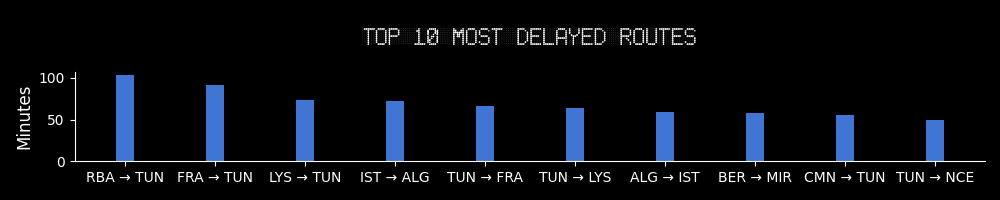
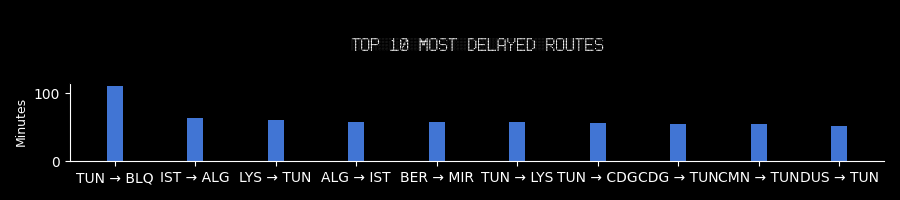
The final Image was ready with all stats need

diff --git a/src/analysis/image_analyze.py b/src/analysis/image_analyze.py
@@ -1,8 +1,10 @@
 import pandas as pd
 import matplotlib.pyplot as plt
 from PIL import Image, ImageDraw, ImageFont
-from src.analysis.analyze_delays import plot_hourly_avg_delays,plot_top_delayed_routes
-
+from datetime import datetime
+import os
+# from src.analysis.analyze_delays import plot_hourly_avg_delays,plot_top_delayed_routes
+# from main import SKYFONT,SKYFONT_INVERTED,GLYPH_AIRPORT
 # Assume you have a DataFrame ready, called df
 # Columns assumed: ['departure_delay', 'arrival_delay', 'flight_status', 'departure_airport', 'arrival_airport', 'flight_number', 'airline']
 
@@ -15,53 +17,91 @@ def create_simple_plot(values, labels, title, ylabel, output_path):
     plt.savefig(output_path)
     plt.close()
 
-def add_banner(report, x, y, label: str, value):
+def get_text_dimensions(text_string: str, font):
     """
-    Function to create the label and it's value
-    the label will be in orange
-    the value will be in white
+    will return the dimensions in pixels of the text
     Args:
-        report (ImageDraw): the report image pillow
-        x (_type_): the x position
-        y (_type_): the y position
-        label (str): the label string will be in orange
-        value (_type_): the value of the label will be in white
+        text_string (str): the text string that will be outputted
+        font (ImageFont): the font used for the text
 
     :returns:
-        _type_: the image updated with the new Banner LABEL : VALUE
+        _type_: text_width and text_height
     """
+    # https://stackoverflow.com/a/46220683/9263761
+    ascent, descent = font.getmetrics()
 
+    text_width = font.getmask(text_string).getbbox()[2]
+    text_height = font.getmask(text_string).getbbox()[3] + descent
+
+    return (text_width, text_height)
+def past_titles(report,SKYFONT, datetime_query):
+    """
+    To generate titles in the white AREA
+    Args:
+        report (_type_): the report from PILLOW
+        datetime_query (_type_): query date formatted DD/MM/YYYY
+    """
+    # Last update hour
     report.text(
-        (x + 10, y),
-        label,
-        font=ImageFont.truetype(SKYFONT_INVERTED, FONT_SIZE),
+        (55, 60),
+        f"LAST UPDATE AT {datetime_query.strftime('%#H:%M')}",
+        font=ImageFont.truetype(SKYFONT, 9),
         fill="black",
     )
-    width_text, height_text = get_text_dimensions(
-        label, ImageFont.truetype(SKYFONT_INVERTED, FONT_SIZE)
-    )
+    # Big Title
     report.text(
-        (x + width_text + 10, y),
-        str(value),
-        font=ImageFont.truetype(SKYFONT, FONT_SIZE),
-        fill="white",
+        (260, 10),
+        f"NOUVELAIR DAILY INGEST {datetime_query.strftime('%a %d %B %Y').upper()}",
+        font=ImageFont.truetype(SKYFONT, 25),
+        fill="black",
     )
+    # Subtitle
     report.text(
-        (x + 10, y),
-        label,
-        font=ImageFont.truetype(SKYFONT, FONT_SIZE),
-        fill="orange",
+        (260, 50),
+        "NOUVELAIR FLIGHT DELAY ANALYSIS REPORT",
+        font=ImageFont.truetype(SKYFONT, 15),
+        fill="black",
     )
+    return report
 
-    return get_text_dimensions(
-        f"{label} {value}", ImageFont.truetype(SKYFONT, FONT_SIZE)
-    )
-
-def generate_report_image(df,df_st,top_delay_path,hourly_delay_path, output_path="final_report.png"):
+def generate_report_image(df,df_st,top_delay_path,hourly_delay_path, SKYFONT, output_path="final_report.png"):
     # Create the main white background
-    report_img = Image.new("RGB", (1080, 720), color="white")
-    draw = ImageDraw.Draw(report_img)
-    font = ImageFont.truetype("arial.ttf", size=20)
+    report_img = Image.new("RGB", (1080, 720), color="black")
+
+
+
+
+
+    # LOGO BLOCK
+    logo_path = "src/analysis/nouvelair_logo.png"
+    # logo = Image.open(logo_path)
+    # draw.paste(logo,(25,7))
+    if os.path.exists(logo_path):
+        with Image.open(logo_path) as nouvelair_logo:
+            # Do something with the image
+            report_img.paste(nouvelair_logo, (0, 0))
+            # TITLES BLOCKS
+            draw = ImageDraw.Draw(report_img)
+            date_now = datetime.now()
+            past_titles(draw,SKYFONT,date_now) 
+    else:
+        print(f"Logo not found at {logo_path}")
+    # with Image.open("nouvelair_logo.png") as nouvelair_logo:
+    #     draw.paste(nouvelair_logo, (25, 7))
+
+
+
+
+
+    # draw = ImageDraw.Draw(report_img)
+    # font = ImageFont.truetype("arial.ttf", size=20)
+    font = ImageFont.truetype(SKYFONT, size=17)
+
+
+    
+
+    
+
 
     # KPIs
     flight_status_counts = df_st['flight_status'].value_counts()
@@ -76,6 +116,7 @@ def generate_report_image(df,df_st,top_delay_path,hourly_delay_path, output_path
     dep_stats = [int(dep_delays.min()), int(dep_delays.max()), int(dep_delays.mean()), int(dep_delays.sum())]
     arr_stats = [int(arr_delays.min()), int(arr_delays.max()), int(arr_delays.mean()), int(arr_delays.sum())]
 
+    worst_flight = df.loc[df['arrival_delay'].idxmax()]
 
 
     # Write KPIs
@@ -86,28 +127,113 @@ def generate_report_image(df,df_st,top_delay_path,hourly_delay_path, output_path
     #     f"Landed: {landed}"
     # ]
     kpi_texts = [
-        f"NOUVLAIR FLIGHTS       SCHEDULED: {scheduled}      CANCELLED: {canceled}      ACTIVE: {active}      LANDED: {landed}"
+        f"NOUVLAIR FLIGHTS       SCHEDULED: {scheduled}     CANCELLED: {canceled}     ACTIVE: {active}     LANDED: {landed}"
     ]
-    stats_dep_text = [f"  DELAYED DEPARTURE: {dep_stats[3]}",
-                      f"MIN: {dep_stats[0]}   MAX: {dep_stats[1]}   AVG: {dep_stats[2]}"]
-    stats_arr_text = [f"  DELAYED ARRIVAL: {arr_stats[3]}",
-                      f"MIN: {arr_stats[0]}   MAX: {arr_stats[1]}   AVG: {arr_stats[2]}"]
+    stats_dep_text = [f"  DELAYED DEPARTURE: {int(dep_stats[3]/60)}H",
+                      f"MIN: {dep_stats[0]}M   MAX: {dep_stats[1]}M   AVG: {dep_stats[2]}M"]
+    stats_arr_text = [f"  DELAYED ARRIVAL: {int(arr_stats[3]/60)}H",
+                      f"MIN: {arr_stats[0]}M   MAX: {arr_stats[1]}M   AVG: {arr_stats[2]}M"]
 
+    
+    worst_flight_text = [f"WORST FLIGHT:",f"{worst_flight['airline_name']} {worst_flight['flight_iata']} ",
+                         f" { worst_flight['departure_airport']} -----   DELAY OF {int(worst_flight['arrival_delay']+ worst_flight['departure_delay'])} MIN   -----> {worst_flight['arrival_airport']} "]
+    
     for idx, text in enumerate(kpi_texts):
-        draw.text((50, 50 + idx * 30), text, font=font, fill="white")
+        draw.text((30, 120 + idx * 30), text, font=ImageFont.truetype(SKYFONT, size=15), fill="white")
 
     for idx, text in enumerate(stats_dep_text):
-        draw.text((50, 100 + idx * 30), text, font=font, fill="white")
+        draw.text((80, 170 + idx * 30), text, font=ImageFont.truetype(SKYFONT, size=15), fill="white")
     
     for idx, text in enumerate(stats_arr_text):
-        draw.text((600, 100 + idx * 30), text, font=font, fill="white")
+        draw.text((600, 170 + idx * 30), text, font=ImageFont.truetype(SKYFONT, size=15), fill="white")
+
+    draw.text((300,235),worst_flight_text[0],font=ImageFont.truetype(SKYFONT, size=14),fill="#447add")
+    draw.text((480,235),worst_flight_text[1],font=ImageFont.truetype(SKYFONT, size=14),fill="white")
+    draw.text((270,265),worst_flight_text[2],font=ImageFont.truetype(SKYFONT, size=14),fill="white")
+
+    
+
+    # for idx, text in enumerate(worst_flight_text):
+    #     # draw.text((50, 50 ), text, font=font, fill="white")
+    #     draw.text((300, 200 + idx * 30), text, font=font, fill="red")
 
     # Find worst flight (highest arrival delay)
+
     worst_flight = df.loc[df['arrival_delay'].idxmax()]
     worst_flight_text = (f"Worst Flight: {worst_flight['airline_name']} {worst_flight['flight_iata']} "
                          f"from {worst_flight['departure_airport']} to {worst_flight['arrival_airport']} "
                          f"Delay: {worst_flight['arrival_delay']} min")
-    draw.text((50, 200), worst_flight_text, font=font, fill="red")
+
+    # # First line text parts
+    # label_text = "WORST FLIGHT: "
+    # flight_text = f"{worst_flight['airline_name']} {worst_flight['flight_iata']}"
+
+    # # Second line text
+    # departure = worst_flight['departure_airport']
+    # arrival = worst_flight['arrival_airport']
+    # delay = worst_flight['arrival_delay']
+    # second_line_text = f"✈  {departure} ----DELAY OF {int(delay)}M----> {arrival} ✈"
+
+    # # Coordinates
+    # x_first_line = 400  # Adjust this if needed
+    # y_first_line = 50
+
+    # x_second_line = 250  # Adjust to center it nicely
+    # y_second_line = 150
+
+    # # Draw first line
+    # draw.text((x_first_line, y_first_line), label_text, font=font, fill="#447add")
+    # label_width = draw.textlength(label_text, font=font)
+    # draw.text((x_first_line + label_width, y_first_line), flight_text, font=font, fill="white")
+
+    # # Draw second line
+    # draw.text((x_second_line, y_second_line), second_line_text, font=font, fill="white")
+
+
+    # top_left = (30, 290)  # Top-left corner
+    # bottom_right = (1000, 710)  # Bottom-right corner
+    # radius = 30  # Radius for the rounded corners
+    # border_color = '#447add' # Border color (black)
+    # border_thickness = 1.5  # Border thickness
+
+    # Draw the rounded rectangle with empty center (only the border is filled)
+    
+    # draw.rounded_rectangle([(30,290), (1000, 710)], radius=30, outline='#447add', width=1.5)
+
+    
+    
+    
+    # draw.text(
+    #     (x + width_text + 10, y),
+    #     str(value),
+    #     font=ImageFont.truetype(SKYFONT, FONT_SIZE),
+    #     fill="white",
+    # )
+    # report.text(
+    #     (x + 10, y),
+    #     label,
+    #     font=ImageFont.truetype(SKYFONT_INVERTED, FONT_SIZE),
+    #     fill="black",
+    # )
+    # width_text, height_text = get_text_dimensions(
+    #     label, ImageFont.truetype(SKYFONT_INVERTED, FONT_SIZE)
+    # )
+    # report.text(
+    #     (x + width_text + 10, y),
+    #     str(value),
+    #     font=ImageFont.truetype(SKYFONT, FONT_SIZE),
+    #     fill="white",
+    # )
+    # report.text(
+    #     (x + 10, y),
+    #     label,
+    #     font=ImageFont.truetype(SKYFONT, FONT_SIZE),
+    #     fill="orange",
+    # )
+
+    # return get_text_dimensions(
+    #     f"{label} {value}", ImageFont.truetype(SKYFONT, FONT_SIZE)
+    # )
 
     # Delay stats
     # dep_delays = df['departure_delay'].dropna()
@@ -126,9 +252,15 @@ def generate_report_image(df,df_st,top_delay_path,hourly_delay_path, output_path
     top_delay = Image.open(top_delay_path)
     hourly_delay = Image.open(hourly_delay_path)
 
-    report_img.paste(hourly_delay, (-30, 300))
-    report_img.paste(top_delay, (50, 500))
+    report_img.paste(hourly_delay, (50, 290))
+    report_img.paste(top_delay, (50, 490))
 
+    draw.rounded_rectangle([(30, 310), (1000, 680)], radius=15, outline='#447add', width=2)
+    draw.rounded_rectangle([(60, 160), (460, 225)], radius=15, outline='#447add', width=2)
+    draw.rounded_rectangle([(580, 160), (970, 225)], radius=15, outline='#447add', width=2)
+
+    draw.text((350,695),"MADE BY: ",font=ImageFont.truetype(SKYFONT, size=14),fill="white")
+    draw.text((470,695),"AMIR AMEMI ",font=ImageFont.truetype(SKYFONT, size=14),fill="#447add")
     report_img.save(output_path)
     print(f"Report saved as {output_path}")
 

diff --git a/src/analysis/analyze_delays.py b/src/analysis/analyze_delays.py
@@ -111,7 +111,7 @@ def get_font_prop(font_name: str, size_font: int):
 
 def ax_metadata(ax, title: str, font_prop,):
     ax.set_facecolor("black")
-    ax.set_title(title, fontproperties=font_prop, y=1.2, fontsize=12, color="white")
+    ax.set_title(title, fontproperties=font_prop, y=1.3, fontsize=9, color="white")
     ax.set_xlabel(None)
     ax.set_ylabel("Minutes")
     ax.spines["bottom"].set_color("white")
@@ -124,8 +124,8 @@ def ax_metadata(ax, title: str, font_prop,):
 
 def plot_hourly_avg_delays(df, font_path,output_path):
 # def plot_hourly_avg_delays(df, font_path):
-    font_prop = get_font_prop(font_path, 10)
-    fig, ax = plt.subplots(facecolor="black", figsize=(12, 2))
+    font_prop = get_font_prop(font_path, 7)
+    fig, ax = plt.subplots(facecolor="black", figsize=(9,2))
 
     df_sorted = df.sort_values(by='hour')
     
@@ -145,20 +145,22 @@ def plot_hourly_avg_delays(df, font_path,output_path):
 
     ax_metadata(ax, "Average Hourly Delays", font_prop)
     ax.legend(facecolor="black", labelcolor="white", prop=font_prop)
+    plt.tight_layout()
     plt.savefig(output_path)
+    
     # plt.show()
 
 
 # def plot_top_delayed_routes(result, font_path):
 def plot_top_delayed_routes(result, font_path,output_path):
-    font_prop = get_font_prop(font_path, 10)
-    fig, ax = plt.subplots(facecolor="black", figsize=(10, 2))
+    font_prop = get_font_prop(font_path, 6)
+    fig, ax = plt.subplots(facecolor="black", figsize=(9, 2))
 
     routes = [f"{dep} → {arr}" for dep, arr in result.index]
     ax.bar(routes, result.values,width = 0.2, color='#4175d4')
     ax.set_xticklabels(routes, ha='center')
 
-    ax.set_ylabel("Average Departure Delay (minutes)", fontsize=12, color="white")
+    ax.set_ylabel("Average Departure Delay (minutes)", fontsize=9, color="white")
     ax_metadata(ax, "Top 10 Most Delayed Routes", font_prop)
     plt.tight_layout()
     plt.savefig(output_path)

diff --git a/main.py b/main.py
@@ -38,7 +38,10 @@ if __name__ == "__main__":
     load_to_postgres(df_cleaned, table_name_cleaned)
     load_to_postgres(df_status_cleaned,table_status)
     load_to_postgres(df_avg_data,table_avg)
+
     SKYFONT = path_dir("src/fonts/LEDBDREV.TTF")
+    SKYFONT_INVERTED = path_dir("src/fonts/LEDBOARD.TTF")
+    GLYPH_AIRPORT = path_dir("src/fonts/GlyphyxOneNF.ttf")
     # # print(df_status_cleaned.columns)
     # # print(top_delayed_routes(df_cleaned))
     # plot_hourly_avg_delays(df_avg_data,SKYFONT)
@@ -51,4 +54,4 @@ if __name__ == "__main__":
     # plot_top_delayed_routes(df_cleaned,10,top_delay_path)
     plot_hourly_avg_delays(df_avg_data,SKYFONT,hourly_delay_path)
     # plot_hourly_avg_delays(df_avg_data,SKYFONT,hourly_delay_path)
-    generate_report_image(df_cleaned,df_status_cleaned,top_delay_path,hourly_delay_path)
+    generate_report_image(df_cleaned,df_status_cleaned,top_delay_path,hourly_delay_path,SKYFONT)
